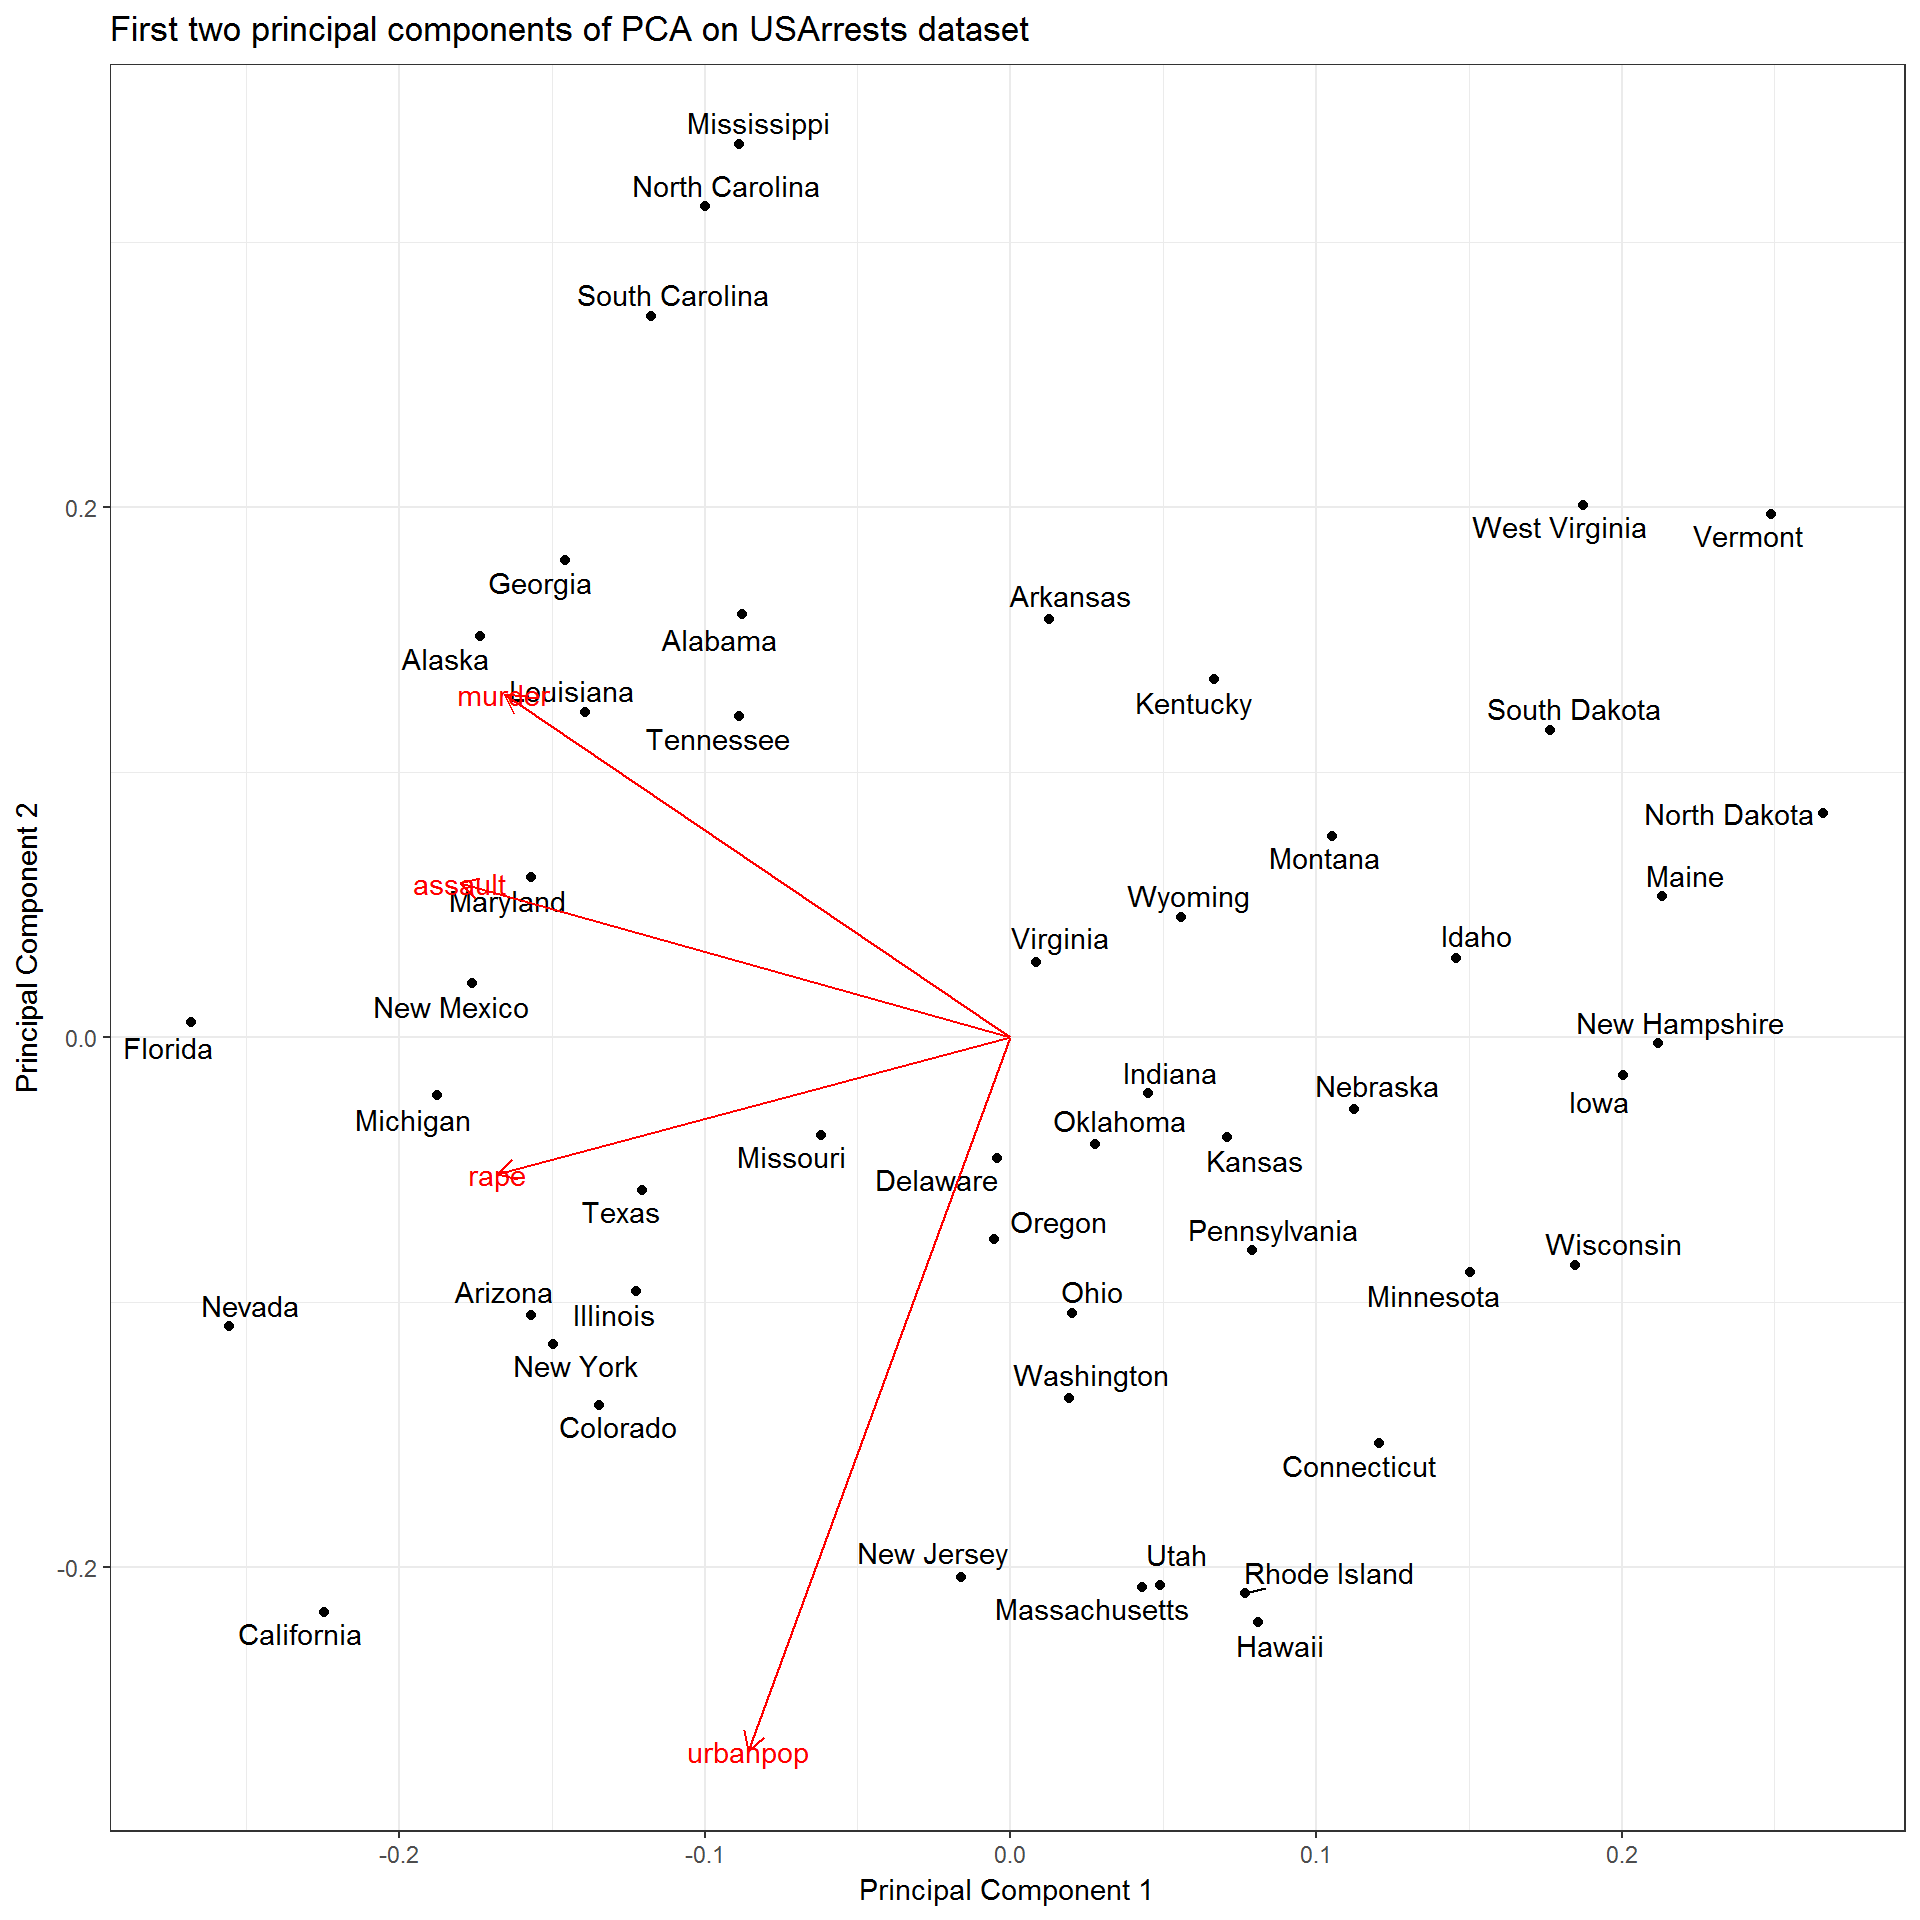
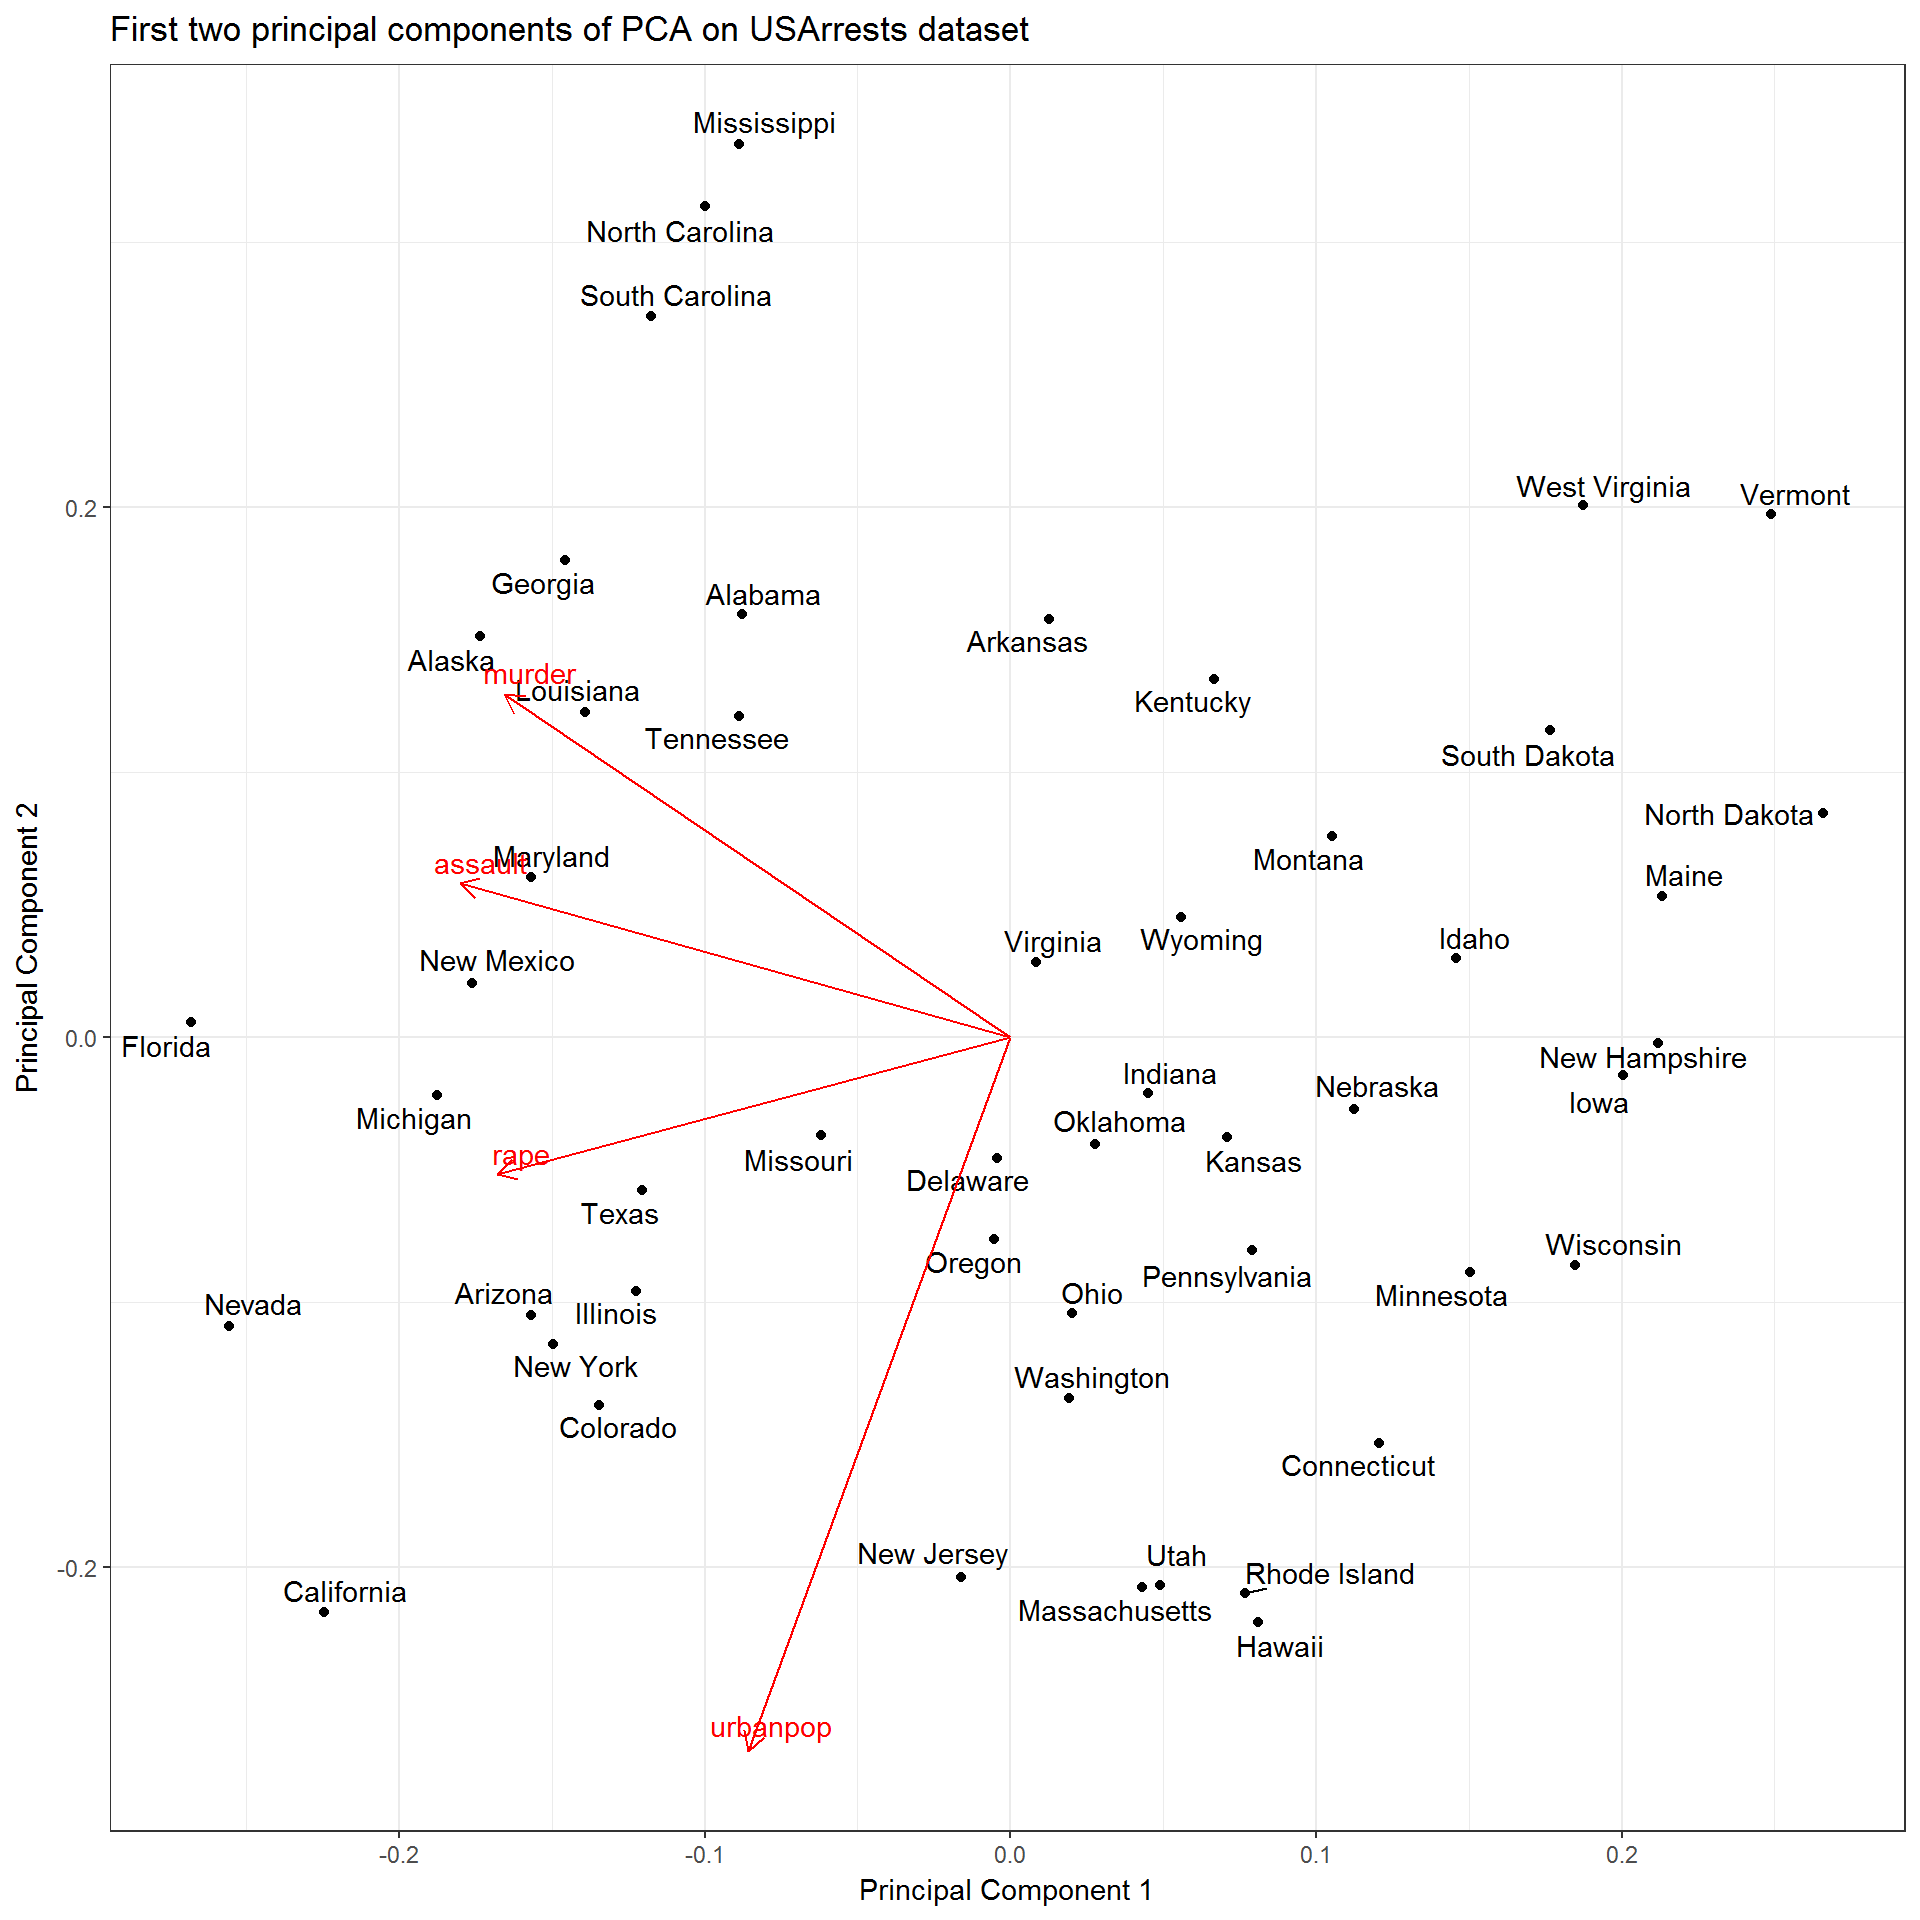
fixed typo in autoplot function

diff --git a/content/post/2018-02-01-pca-in-a-tidy-verse-framework.html b/content/post/2018-02-01-pca-in-a-tidy-verse-framework.html
@@ -198,7 +198,7 @@ var_exp</code></pre>
       .x = pca,
       .y = data,
       ~ autoplot(.x, loadings = TRUE, loadings.label = TRUE,
-                 laodings.label.repel = TRUE,
+                 loadings.label.repel = TRUE,
                  data = .y, label = TRUE,
                  label.label = &quot;state&quot;,
                  label.repel = TRUE) +
